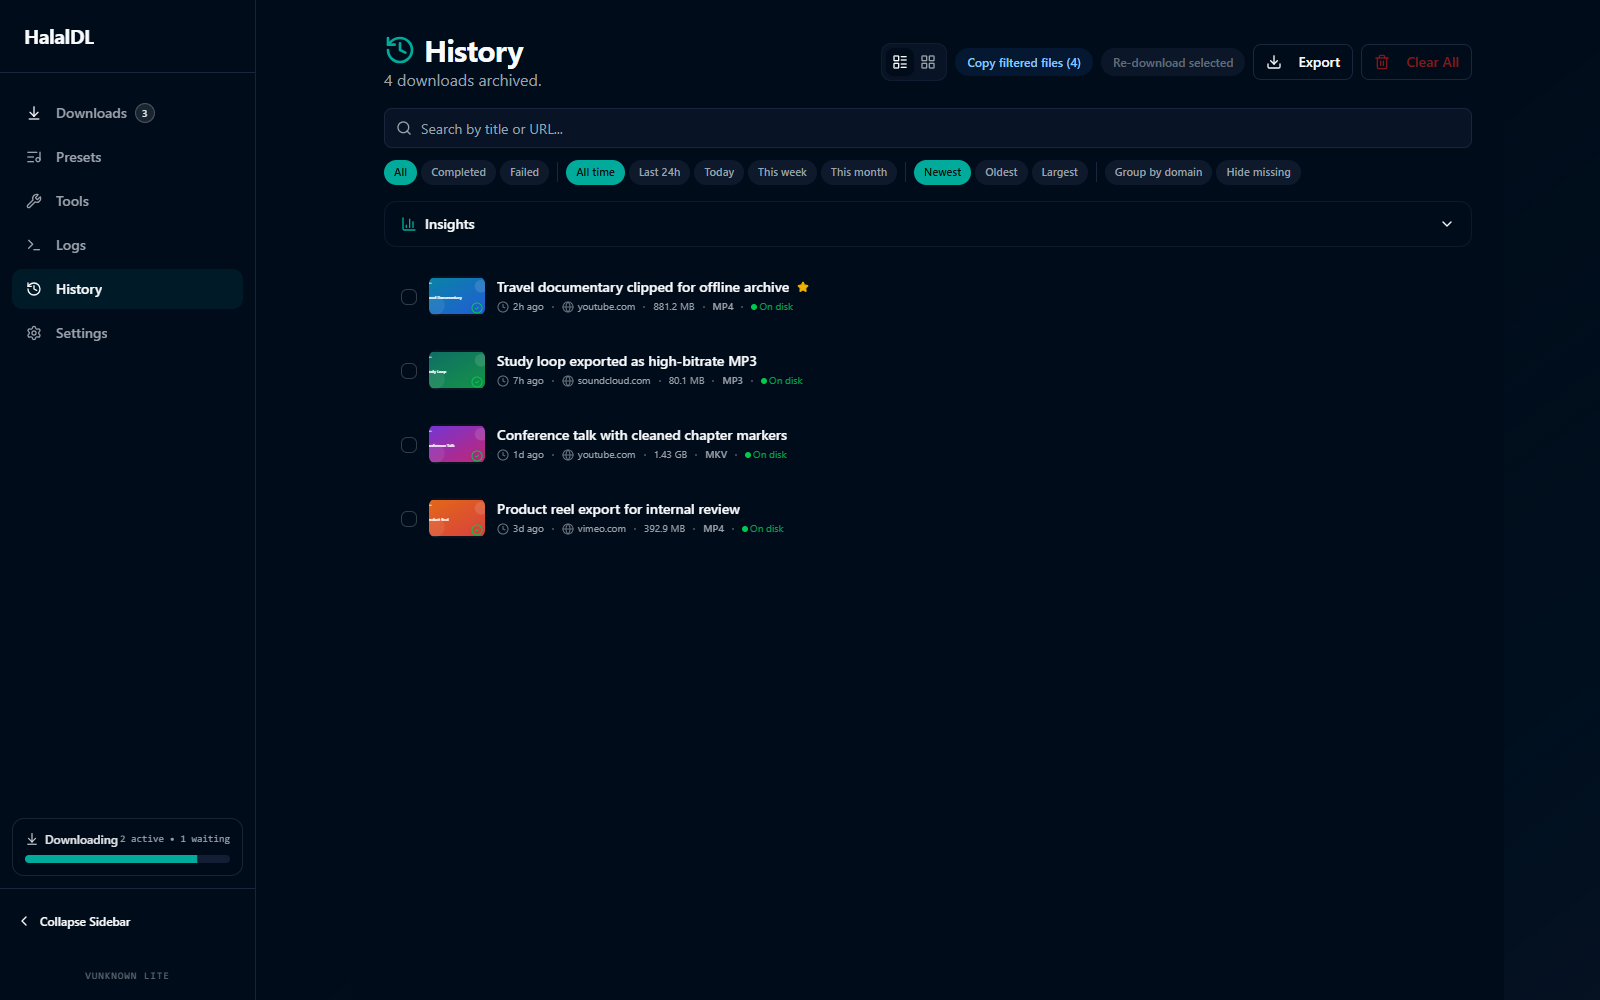
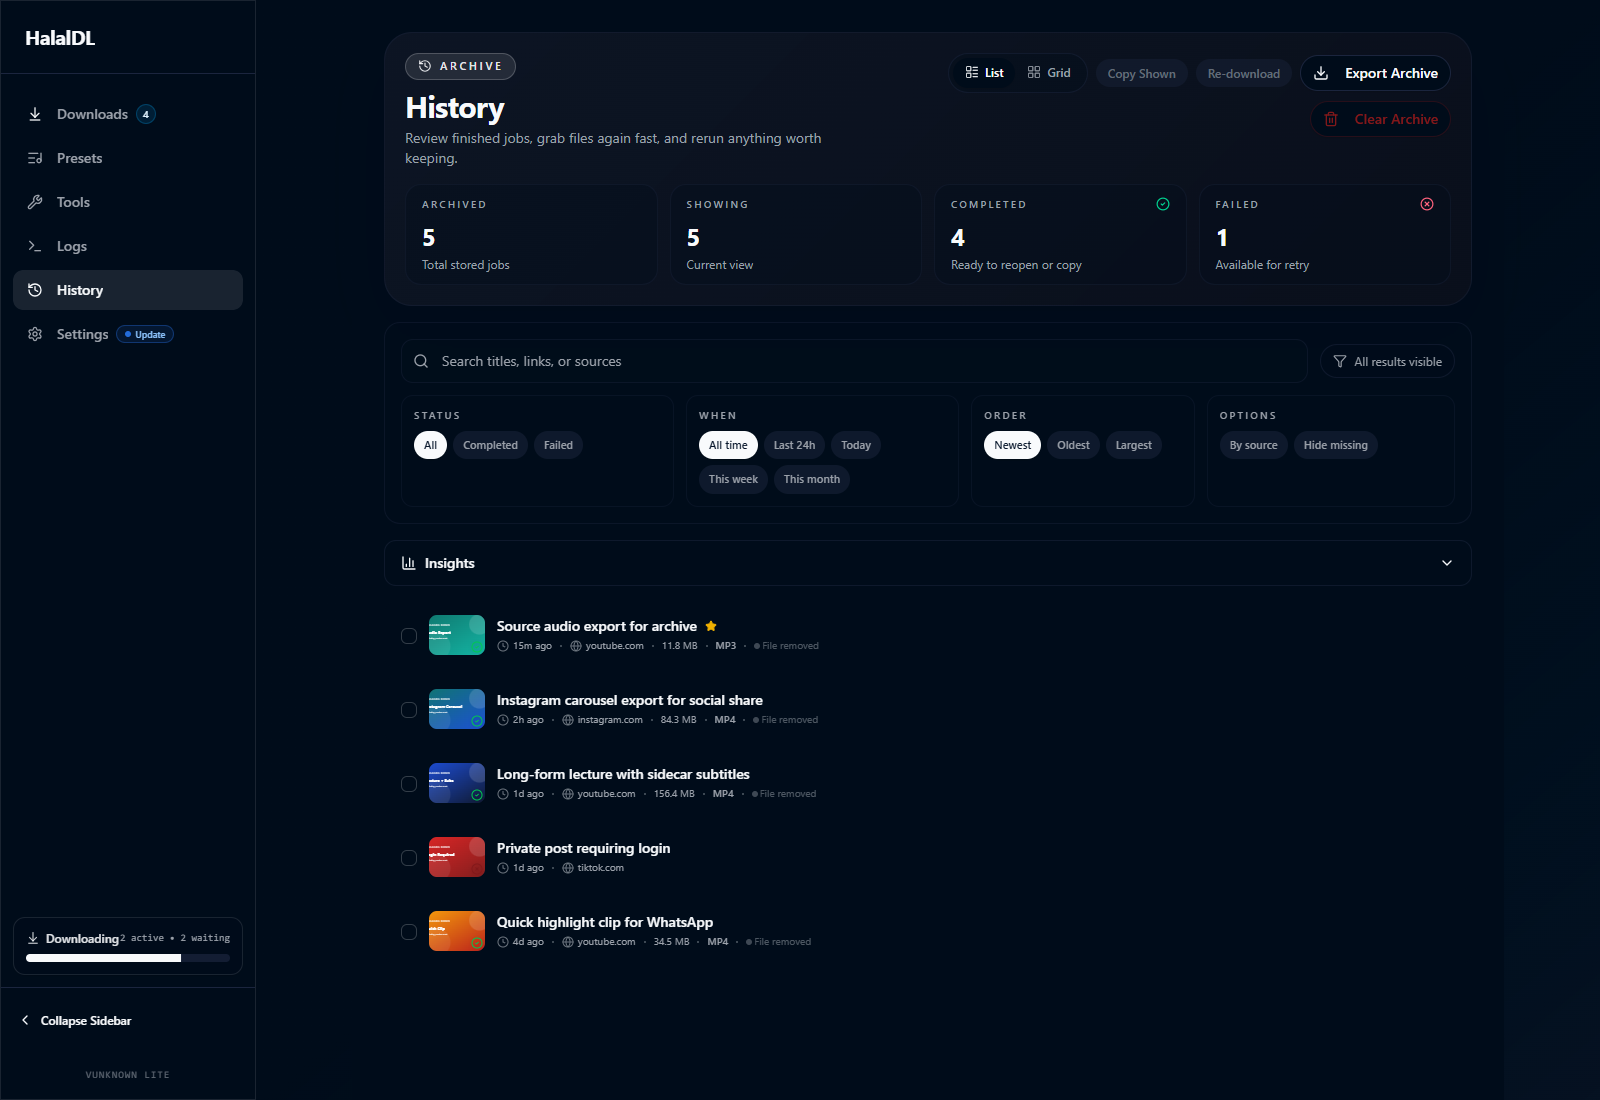
Refresh site for HalalDL 0.4.0 release assets

diff --git a/src/lib/site.ts b/src/lib/site.ts
@@ -118,23 +118,111 @@ export type FeatureStory = {
 
 export const FEATURE_STORIES: FeatureStory[] = [
   {
-    id: "downloads",
-    label: "Downloads",
-    title: "Queue downloads without living in a terminal.",
+    id: "quick-flow",
+    label: "Quick Flow",
+    title: "Catch a copied link from the tray and launch a download fast.",
     description:
-      "Paste a URL, choose a preset, decide whether to start immediately or queue it, and keep the workflow visible from one screen.",
+      "HalalDL 0.4.0 adds a lighter repeat-download path. You can open the quick tray panel, pull in the copied link, choose a preset, and fire the job without walking the whole app every time.",
     bullets: [
-      "URL input, preset selection, and queue actions on one surface",
-      "Queue and start-now flow stays explicit instead of hidden",
-      "Windows-first layout that feels like a desktop utility, not a shell wrapper",
+      "Tray-first panel keeps repeat downloads fast without hiding what will happen next",
+      "Clipboard-aware flow reduces the copy-paste routine for everyday links",
+      "Preset choice stays visible so the fast path still feels deliberate",
     ],
     accent: "sky",
-    stat: "Start now or queue",
+    stat: "Tray-first repeat flow",
     media: {
       kind: "image",
-      lightSrc: "/screenshots/light/halaldl-downloads.png",
-      darkSrc: "/screenshots/halaldl-downloads.png",
-      alt: "HalalDL downloads screen",
+      lightSrc: "/releases/0.4.0/promo/quick-flow.png",
+      darkSrc: "/releases/0.4.0/promo/quick-flow-dark.png",
+      alt: "HalalDL quick flow tray download panel",
+      width: 1600,
+      height: 1000,
+    },
+  },
+  {
+    id: "subtitle-presets",
+    label: "Preset Logic",
+    title: "Let presets carry subtitle choices instead of redoing them every run.",
+    description:
+      "The 0.4.0 preset refresh makes subtitle behavior part of the preset story. That means fewer repeated toggles, clearer labeling, and a setup that feels authored instead of improvised.",
+    bullets: [
+      "Subtitle-aware presets carry language and subtitle intent with the preset itself",
+      "Built-in grouping reads more cleanly in both the main app and quick tray flow",
+      "A dedicated subtitles-only path makes the preset model more complete",
+    ],
+    accent: "mint",
+    stat: "Preset choices stay reusable",
+    media: {
+      kind: "image",
+      lightSrc: "/releases/0.4.0/promo/subtitle-presets.png",
+      darkSrc: "/releases/0.4.0/promo/subtitle-presets-dark.png",
+      alt: "HalalDL subtitle-aware preset selection",
+      width: 1600,
+      height: 1000,
+    },
+  },
+  {
+    id: "updates",
+    label: "App Updates",
+    title: "Download the right package and verify it before install.",
+    description:
+      "The About update flow is stronger in 0.4.0. The app can now identify the correct release package, verify the checksum, and stage the handoff more safely when you are updating.",
+    bullets: [
+      "Release-package detection is clearer than a generic download prompt",
+      "Checksum verification fits the trust story the website already emphasizes",
+      "The update path feels like part of the product, not a detached afterthought",
+    ],
+    accent: "coral",
+    stat: "Verified update handoff",
+    media: {
+      kind: "image",
+      lightSrc: "/releases/0.4.0/screenshots/about-update.png",
+      darkSrc: "/releases/0.4.0/screenshots/about-update-dark.png",
+      alt: "HalalDL About screen showing verified app updates",
+      width: 1600,
+      height: 1000,
+    },
+  },
+  {
+    id: "notifications",
+    label: "Notification Routing",
+    title: "Click the alert and land on the exact thing that needs attention.",
+    description:
+      "0.4.0 turns notifications into navigation instead of noise. Supported alerts can now bring HalalDL forward and spotlight the exact tool, download, or update area that changed.",
+    bullets: [
+      "Actionable notifications reduce hunting through the app after a toast appears",
+      "Spotlight states make the destination obvious once the window opens",
+      "The release adds a more trustworthy bridge between alerts and actual app state",
+    ],
+    accent: "sky",
+    stat: "Alerts become actionable",
+    media: {
+      kind: "image",
+      lightSrc: "/releases/0.4.0/promo/notification-spotlight.png",
+      darkSrc: "/releases/0.4.0/promo/notification-spotlight-dark.png",
+      alt: "HalalDL notification spotlight routing",
+      width: 1600,
+      height: 1000,
+    },
+  },
+  {
+    id: "history",
+    label: "History",
+    title: "Keep completed runs visible instead of reconstructing them from memory.",
+    description:
+      "The refreshed History screen makes repeatable downloading easier to trust over time. Archive summaries, filters, and clearer browsing give the app more of a durable desktop-tool feel.",
+    bullets: [
+      "Archive summary and filters read more cleanly after the refresh",
+      "Saved jobs stay inspectable after the active queue is gone",
+      "Repeat downloading feels more dependable when finished work stays traceable",
+    ],
+    accent: "mint",
+    stat: "Completed runs stay traceable",
+    media: {
+      kind: "image",
+      lightSrc: "/releases/0.4.0/promo/history-refresh.png",
+      darkSrc: "/releases/0.4.0/promo/history-refresh-dark.png",
+      alt: "HalalDL refreshed history screen",
       width: 1600,
       height: 1000,
     },
@@ -142,13 +230,13 @@ export const FEATURE_STORIES: FeatureStory[] = [
   {
     id: "logs",
     label: "Raw Logs",
-    title: "Keep the raw output visible when something goes wrong.",
+    title: "Keep the engine visible when a site or extractor behaves badly.",
     description:
-      "HalalDL does not try to hide the engine. The design principle is to keep the raw yt-dlp output visible so failures feel diagnosable, not mysterious.",
+      "Even with the faster quick-flow release, HalalDL still keeps raw output close at hand. That matters when a platform changes, an extractor breaks, or you need to explain a failure clearly.",
     bullets: [
-      "Raw output is part of the default story, not buried behind a debug mode",
-      "Useful when platform rules, extractors, or auth requirements change",
-      "Matches the project's trust-first tone: clear state, clear failure, clear source",
+      "Raw output stays part of the product story instead of hiding behind debug mode",
+      "Useful when validation passes but the downstream extractor still misbehaves",
+      "Supports the same trust-first posture as release notes, checksums, and public issues",
     ],
     accent: "coral",
     stat: "Visible output beats vague progress",
@@ -157,50 +245,6 @@ export const FEATURE_STORIES: FeatureStory[] = [
       lightSrc: "/screenshots/light/halaldl-logs.png",
       darkSrc: "/screenshots/halaldl-logs.png",
       alt: "HalalDL logs screen",
-      width: 1600,
-      height: 1000,
-    },
-  },
-  {
-    id: "settings",
-    label: "Settings",
-    title: "Match the interface to your theme without losing the utility feel.",
-    description:
-      "The updated settings view makes the light, dark, and system appearance options explicit, which gives the site a clean bridge into a real dual-mode product story.",
-    bullets: [
-      "Appearance choices are visible instead of hidden in a generic preferences drawer",
-      "Accent, storage, and behavior settings feel like part of the product, not an afterthought",
-      "Lets the website mirror the app with matching light and dark screenshots",
-    ],
-    accent: "mint",
-    stat: "Light, dark, or system",
-    media: {
-      kind: "image",
-      lightSrc: "/screenshots/light/halaldl-settings.png",
-      darkSrc: "/screenshots/halaldl-settings.png",
-      alt: "HalalDL settings screen",
-      width: 1600,
-      height: 1000,
-    },
-  },
-  {
-    id: "history",
-    label: "History",
-    title: "Keep completed runs visible instead of losing them to a closed shell.",
-    description:
-      "A populated history view makes repeatable downloading more practical. You can inspect what completed, when it ran, and what preset or destination was used without reconstructing the session from memory.",
-    bullets: [
-      "Completed items stay visible after the active queue is gone",
-      "Useful for tracking what already ran and avoiding duplicate work",
-      "Turns the app into a better long-lived desktop utility, not a one-shot wrapper",
-    ],
-    accent: "sky",
-    stat: "Completed runs stay traceable",
-    media: {
-      kind: "image",
-      lightSrc: "/screenshots/light/halaldl-history.png",
-      darkSrc: "/screenshots/halaldl-history.png",
-      alt: "HalalDL history screen",
       width: 1600,
       height: 1000,
     },

diff --git a/src/components/home/home-data.ts b/src/components/home/home-data.ts
@@ -19,32 +19,32 @@ export const trustSignals = [
 export const workflowSteps = [
   {
     num: "01",
-    label: "Start clean",
-    title: "Paste the link and choose a preset without hunting for flags.",
-    body: "Input, preset choice, and queue controls sit on one authored surface. It should feel like a desktop tool that already understands the next question you would ask in the terminal.",
-    detail: "URL, preset, and action state stay visible together.",
+    label: "Start faster",
+    title: "Drop a copied link into the full app or quick tray flow without rebuilding the routine.",
+    body: "The point of the new quick flow is not just speed. It is that the fast path still keeps the URL, preset, and next action understandable instead of turning into a mysterious one-click shortcut.",
+    detail: "Clipboard, preset, and launch intent stay readable together.",
   },
   {
     num: "02",
-    label: "Control the queue",
-    title: "Start now or queue it deliberately instead of guessing the app state.",
-    body: "The important difference is not just that a queue exists. It is that active, waiting, and completed work read clearly enough that you can scan the window and trust what happens next.",
-    detail: "Queueing stays explicit, not hidden behind shell output.",
+    label: "Reuse the preset",
+    title: "Carry subtitle choices and cleaner labels into the moment you actually download.",
+    body: "Preset-driven workflow matters more when the preset remembers the parts people redo every day. In 0.4.0 that now includes subtitle behavior, cleaner grouping, and a flow that reads better in both the full window and tray panel.",
+    detail: "Preset logic stays reusable instead of becoming repeated setup work.",
   },
   {
     num: "03",
-    label: "Inspect what happened",
-    title: "Logs and history stay available when something succeeds or fails.",
-    body: "Completed runs, raw output, and repeatable settings make the app usable over time. You should not need to reconstruct a session from memory after the terminal closes.",
-    detail: "Visible output and archived history make the tool auditable.",
+    label: "Follow the signal",
+    title: "Updates, notifications, logs, and history should point you straight to what changed.",
+    body: "A desktop downloader becomes more trustworthy when the app can surface the right update package, route a notification to the right place, and still leave enough raw output and history behind to explain the result.",
+    detail: "Visible output plus guided attention makes the tool auditable.",
   },
 ];
 
 export const valueProps = [
   {
     icon: Download,
-    title: "Cleaner GUI over yt-dlp",
-    body: "Less repeated flag work, without pretending the engine disappeared.",
+    title: "Tray-friendly quick flow",
+    body: "Repeat downloads get faster without collapsing into a black-box shortcut.",
   },
   {
     icon: TerminalSquare,
@@ -53,12 +53,12 @@ export const valueProps = [
   },
   {
     icon: Sparkles,
-    title: "Preset-driven workflow",
-    body: "Common video and audio targets become practical, not repetitive.",
+    title: "Subtitle-aware presets",
+    body: "Common video, audio, and subtitle targets become practical instead of repetitive.",
   },
   {
     icon: Wrench,
-    title: "Full vs Lite is explicit",
-    body: "Tooling tradeoffs stay visible instead of being buried in install docs.",
+    title: "Safer update path",
+    body: "App-update checks and package verification feel more deliberate in 0.4.0.",
   },
 ];

diff --git a/src/lib/github.ts b/src/lib/github.ts
@@ -81,27 +81,27 @@ const FALLBACK_SNAPSHOT: GitHubSnapshot = {
   stars: 3,
   openIssues: 0,
   licenseName: "MIT License",
-  lastPushedAt: "2026-03-17T18:48:16Z",
-  lastPushedLabel: formatDate("2026-03-17T18:48:16Z"),
-  latestVersion: "v0.3.9",
-  latestReleaseName: "v0.3.9 - The Faster Flow Update",
-  latestReleaseUrl: "https://github.com/Asdmir786/HalalDL/releases/tag/v0.3.9",
-  latestReleaseDate: "2026-03-12T14:16:26Z",
-  latestReleaseLabel: formatDate("2026-03-12T14:16:26Z"),
+  lastPushedAt: "2026-04-04T14:27:58Z",
+  lastPushedLabel: formatDate("2026-04-04T14:27:58Z"),
+  latestVersion: "v0.4.0",
+  latestReleaseName: "v0.4.0 - The Quick Flow Update",
+  latestReleaseUrl: "https://github.com/Asdmir786/HalalDL/releases/tag/v0.4.0",
+  latestReleaseDate: "2026-04-04T14:39:10Z",
+  latestReleaseLabel: formatDate("2026-04-04T14:39:10Z"),
   firstPublicVersion: "v0.1.0",
   firstPublicReleaseDate: "2026-01-10T18:09:25Z",
   firstPublicReleaseLabel: formatDate("2026-01-10T18:09:25Z"),
   releaseNotes:
-    "Latest checked release snapshot from March 18, 2026. Faster Full setup flow, better link feedback, and cleaner install/update UX.",
+    "Latest checked release snapshot from April 4, 2026. Quick tray downloads, subtitle-aware presets, verified app updates, and clearer notification routing.",
   fullSetupUrl:
-    "https://github.com/Asdmir786/HalalDL/releases/download/v0.3.9/HalalDL-Full-v0.3.9-win10%2B11-x64-setup.exe",
-  fullSetupSize: 4188336,
+    "https://github.com/Asdmir786/HalalDL/releases/download/v0.4.0/HalalDL-Full-v0.4.0-win10%2B11-x64-setup.exe",
+  fullSetupSize: 4495881,
   liteSetupUrl:
-    "https://github.com/Asdmir786/HalalDL/releases/download/v0.3.9/HalalDL-Lite-v0.3.9-win10%2B11-x64-setup.exe",
-  liteSetupSize: 4189308,
+    "https://github.com/Asdmir786/HalalDL/releases/download/v0.4.0/HalalDL-Lite-v0.4.0-win10%2B11-x64-setup.exe",
+  liteSetupSize: 4498961,
   checksumsUrl:
-    "https://github.com/Asdmir786/HalalDL/releases/download/v0.3.9/SHA256SUMS.txt",
-  checksumDigest: "sha256:b9cfcda9b5c38d9ead6c3b5829aa782265da2b9a85109e2dbb05fd6aff72246a",
+    "https://github.com/Asdmir786/HalalDL/releases/download/v0.4.0/SHA256SUMS.txt",
+  checksumDigest: "sha256:f13ad15ebf3c40a7b8609d00a40a476195def3b25c6a0270eceda9cf0f2b3c49",
 };
 
 function formatDate(input: string) {

diff --git a/src/components/home/hero-section.tsx b/src/components/home/hero-section.tsx
@@ -52,9 +52,9 @@ export function HeroSection({ github }: { github: GitHubSnapshot }) {
           </h1>
 
           <p className="mt-5 max-w-2xl text-base leading-relaxed text-ink-soft sm:text-lg">
-            Presets instead of flags. Visible raw logs instead of vague progress. Full or Lite
-            install paths. Start on the download page, then verify SHA256 if you want to confirm
-            the file before first run.
+            Quick tray flow instead of repeated shell work. Subtitle-aware presets, visible raw
+            logs, and safer app-update checks. Download from GitHub Releases, then verify SHA256
+            if you want the extra trust step before first run.
           </p>
 
           <div className="mt-8 flex flex-col gap-3 sm:flex-row sm:items-center">
@@ -87,9 +87,9 @@ export function HeroSection({ github }: { github: GitHubSnapshot }) {
           <div className="screenshot-frame hero-stage-shell p-3 sm:p-4">
             <div className="screenshot-inner hero-screenshot-inner">
               <ThemedScreenshot
-                lightSrc="/screenshots/light/halaldl-downloads.png"
-                darkSrc="/screenshots/halaldl-downloads.png"
-                alt="HalalDL downloads screen showing queue management and preset selection"
+                lightSrc="/releases/0.4.0/promo/hero.png"
+                darkSrc="/releases/0.4.0/promo/hero-dark.png"
+                alt="HalalDL 0.4.0 hero art showing quick flow, presets, and update experience"
                 sizes="(min-width: 1280px) 680px, (min-width: 1024px) 52vw, 100vw"
                 priority
                 renderMode="paired"

diff --git a/src/components/home/proof-section.tsx b/src/components/home/proof-section.tsx
@@ -11,7 +11,7 @@ export function ProofSection() {
         eyebrow="Product Proof"
         title="The interface speaks for itself."
         accent="The stage should feel stable."
-        body="As you move through downloads, logs, settings, and history, the screenshot panel should stay pinned, theme-correct, and visually stable instead of collapsing or drifting."
+        body="As you move through quick flow, subtitle presets, verified updates, notification routing, history, and logs, the screenshot panel should stay pinned, theme-correct, and visually stable instead of collapsing or drifting."
         className="max-w-2xl"
       />
 

diff --git a/src/lib/changelog.ts b/src/lib/changelog.ts
@@ -34,6 +34,12 @@ export type ReleaseChecklistGroup = {
 };
 
 const RELEASE_MEDIA_BY_VERSION: Record<string, ChangelogMedia> = {
+  "v0.4.0": {
+    type: "image",
+    lightSrc: "/releases/0.4.0/promo/update-flow.png",
+    darkSrc: "/releases/0.4.0/promo/update-flow-dark.png",
+    alt: "HalalDL 0.4.0 update flow and verified app update experience",
+  },
   "v0.3.9": {
     type: "image",
     lightSrc: "/screenshots/light/halaldl-downloads.png",

diff --git a/README.md b/README.md
@@ -21,7 +21,7 @@ The site is built around the current public HalalDL product story:
 - Upstream README: [HalalDL README](https://github.com/Asdmir786/HalalDL#readme)
 - Support: [SUPPORT.md](https://github.com/Asdmir786/HalalDL/blob/main/SUPPORT.md)
 
-Live product details were checked against GitHub on March 18, 2026. At that point, the latest public release was `v0.3.9`, published on March 12, 2026, and the repo described HalalDL as a Windows-first, local-first desktop GUI for `yt-dlp` with presets, raw logs, and optional tool bundling.
+Live product details were checked against GitHub on April 4, 2026. At that point, the latest public release was `v0.4.0`, published on April 4, 2026, and the repo described HalalDL as a Windows-first, local-first desktop GUI for `yt-dlp` with presets, raw logs, optional tool bundling, quick tray downloads, subtitle-aware presets, and safer app-update flow.
 
 ## Site Goals
 
